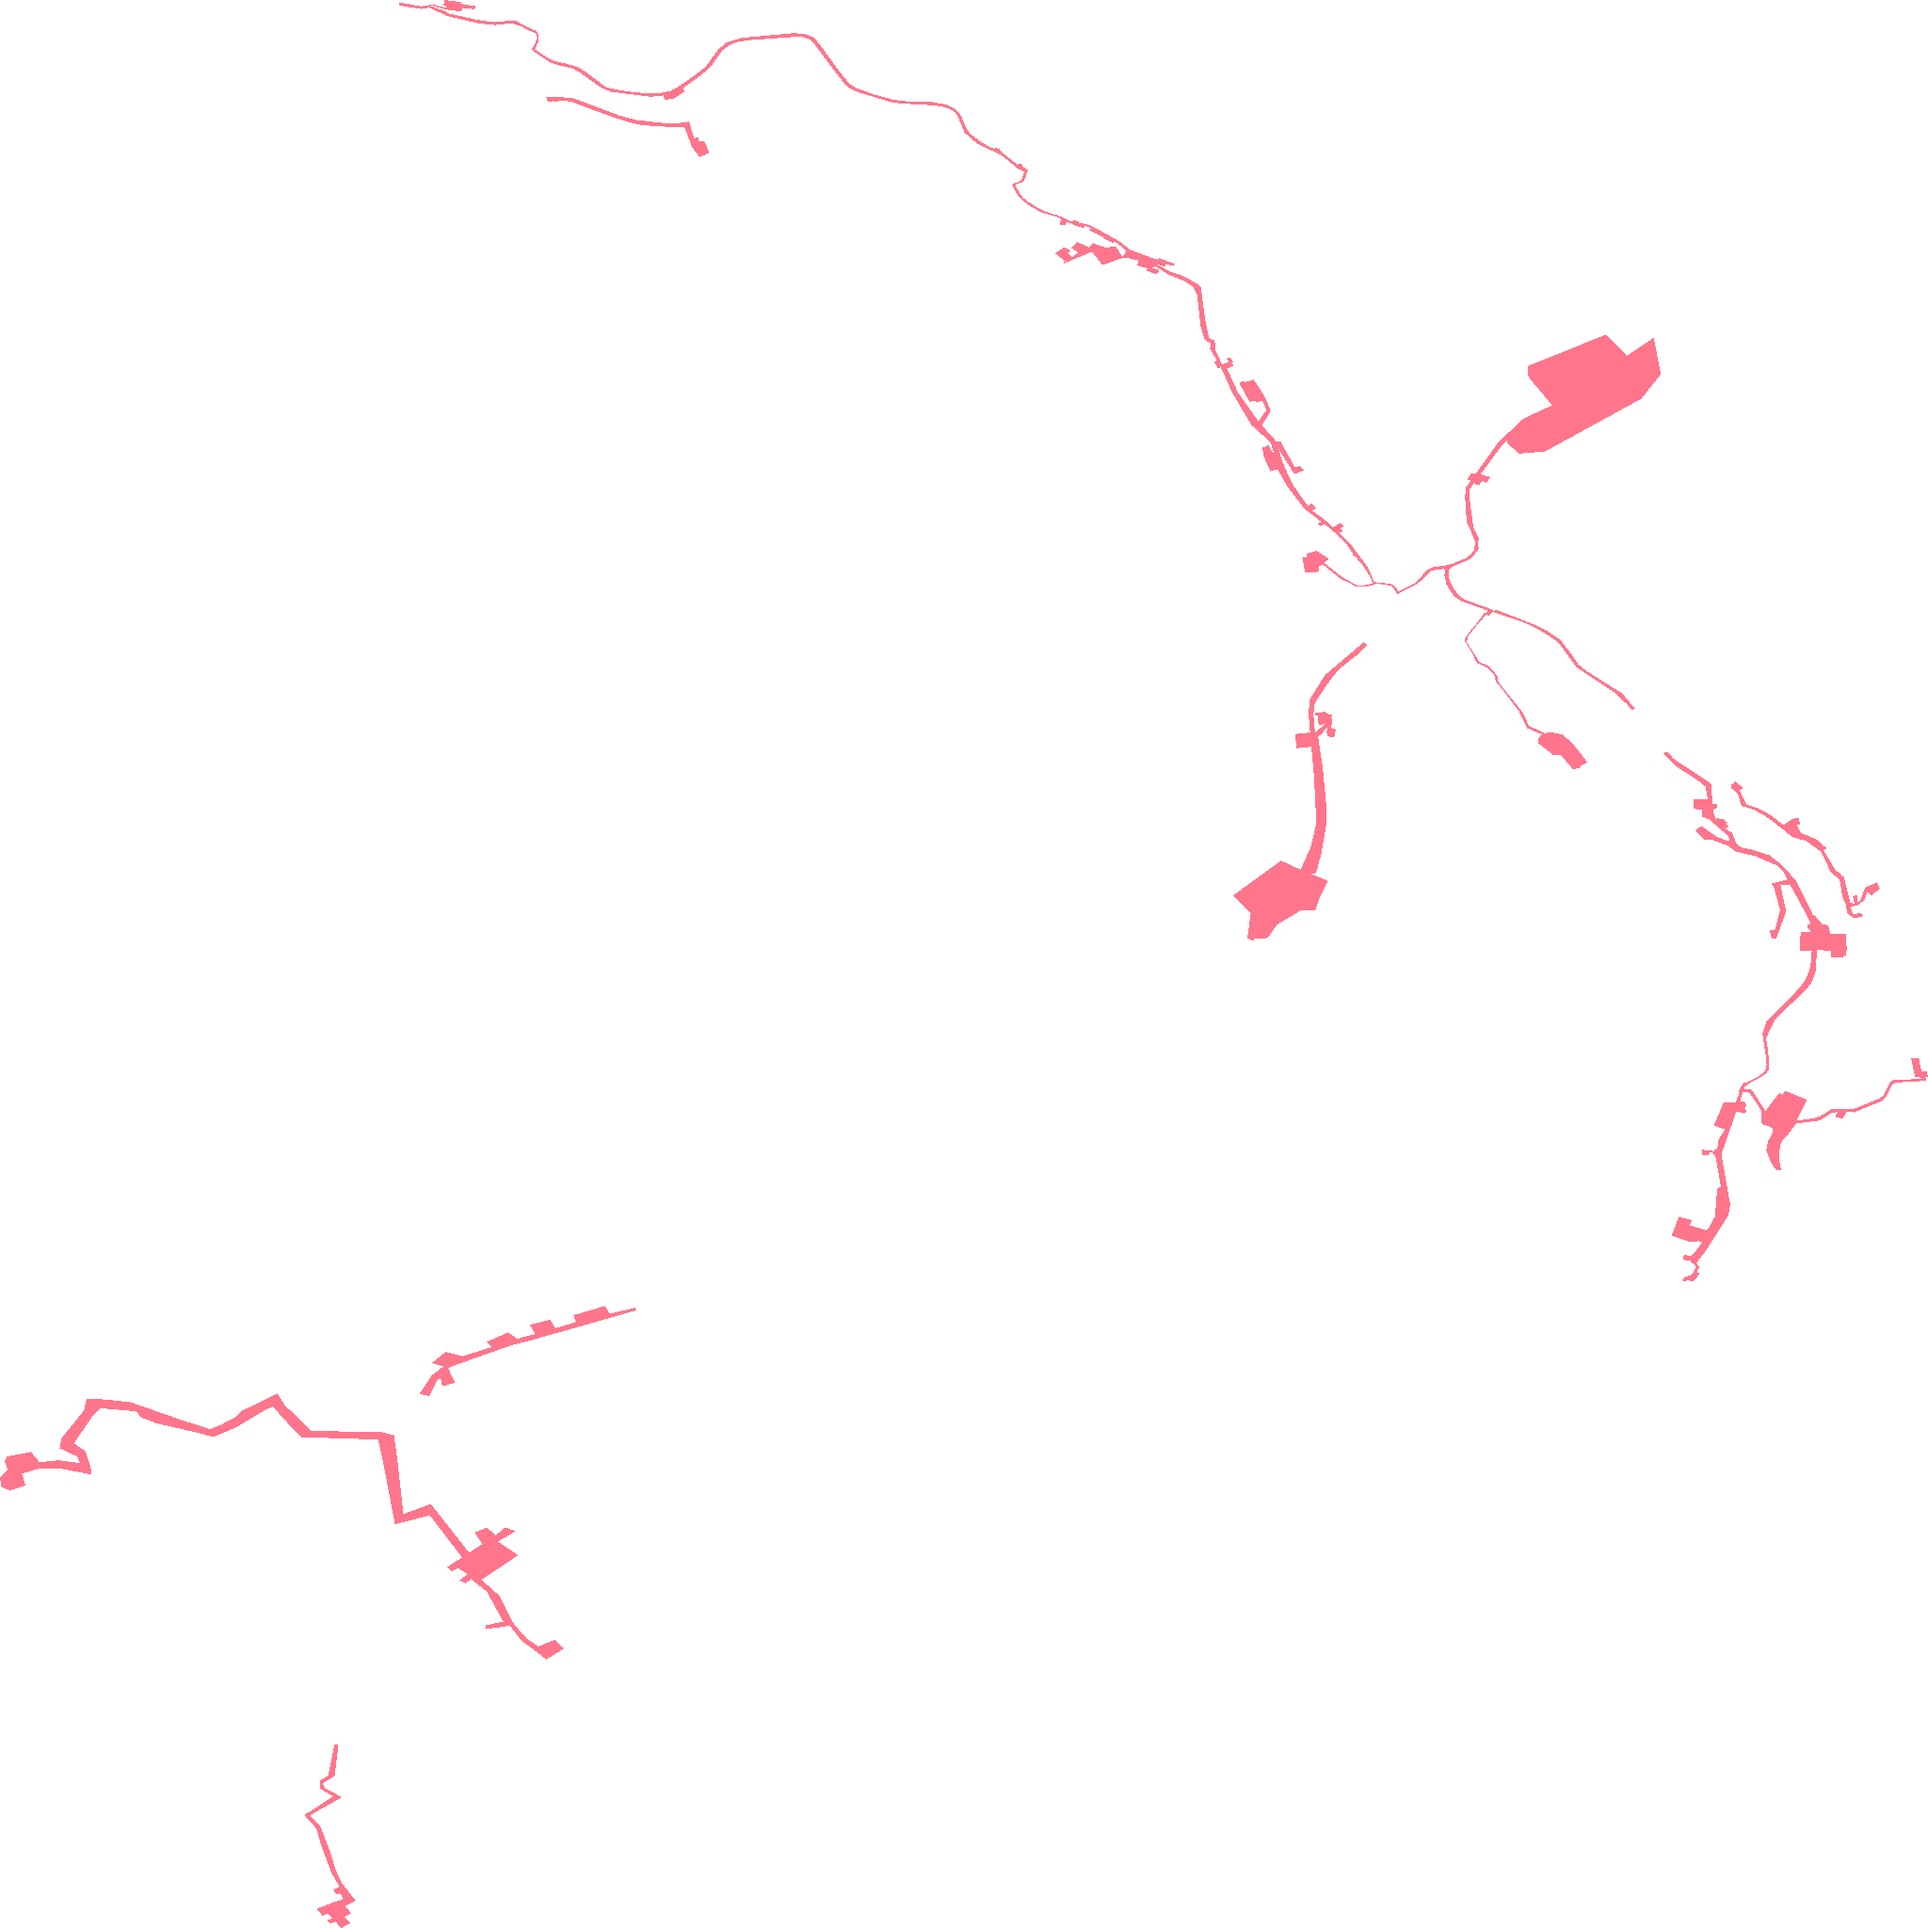
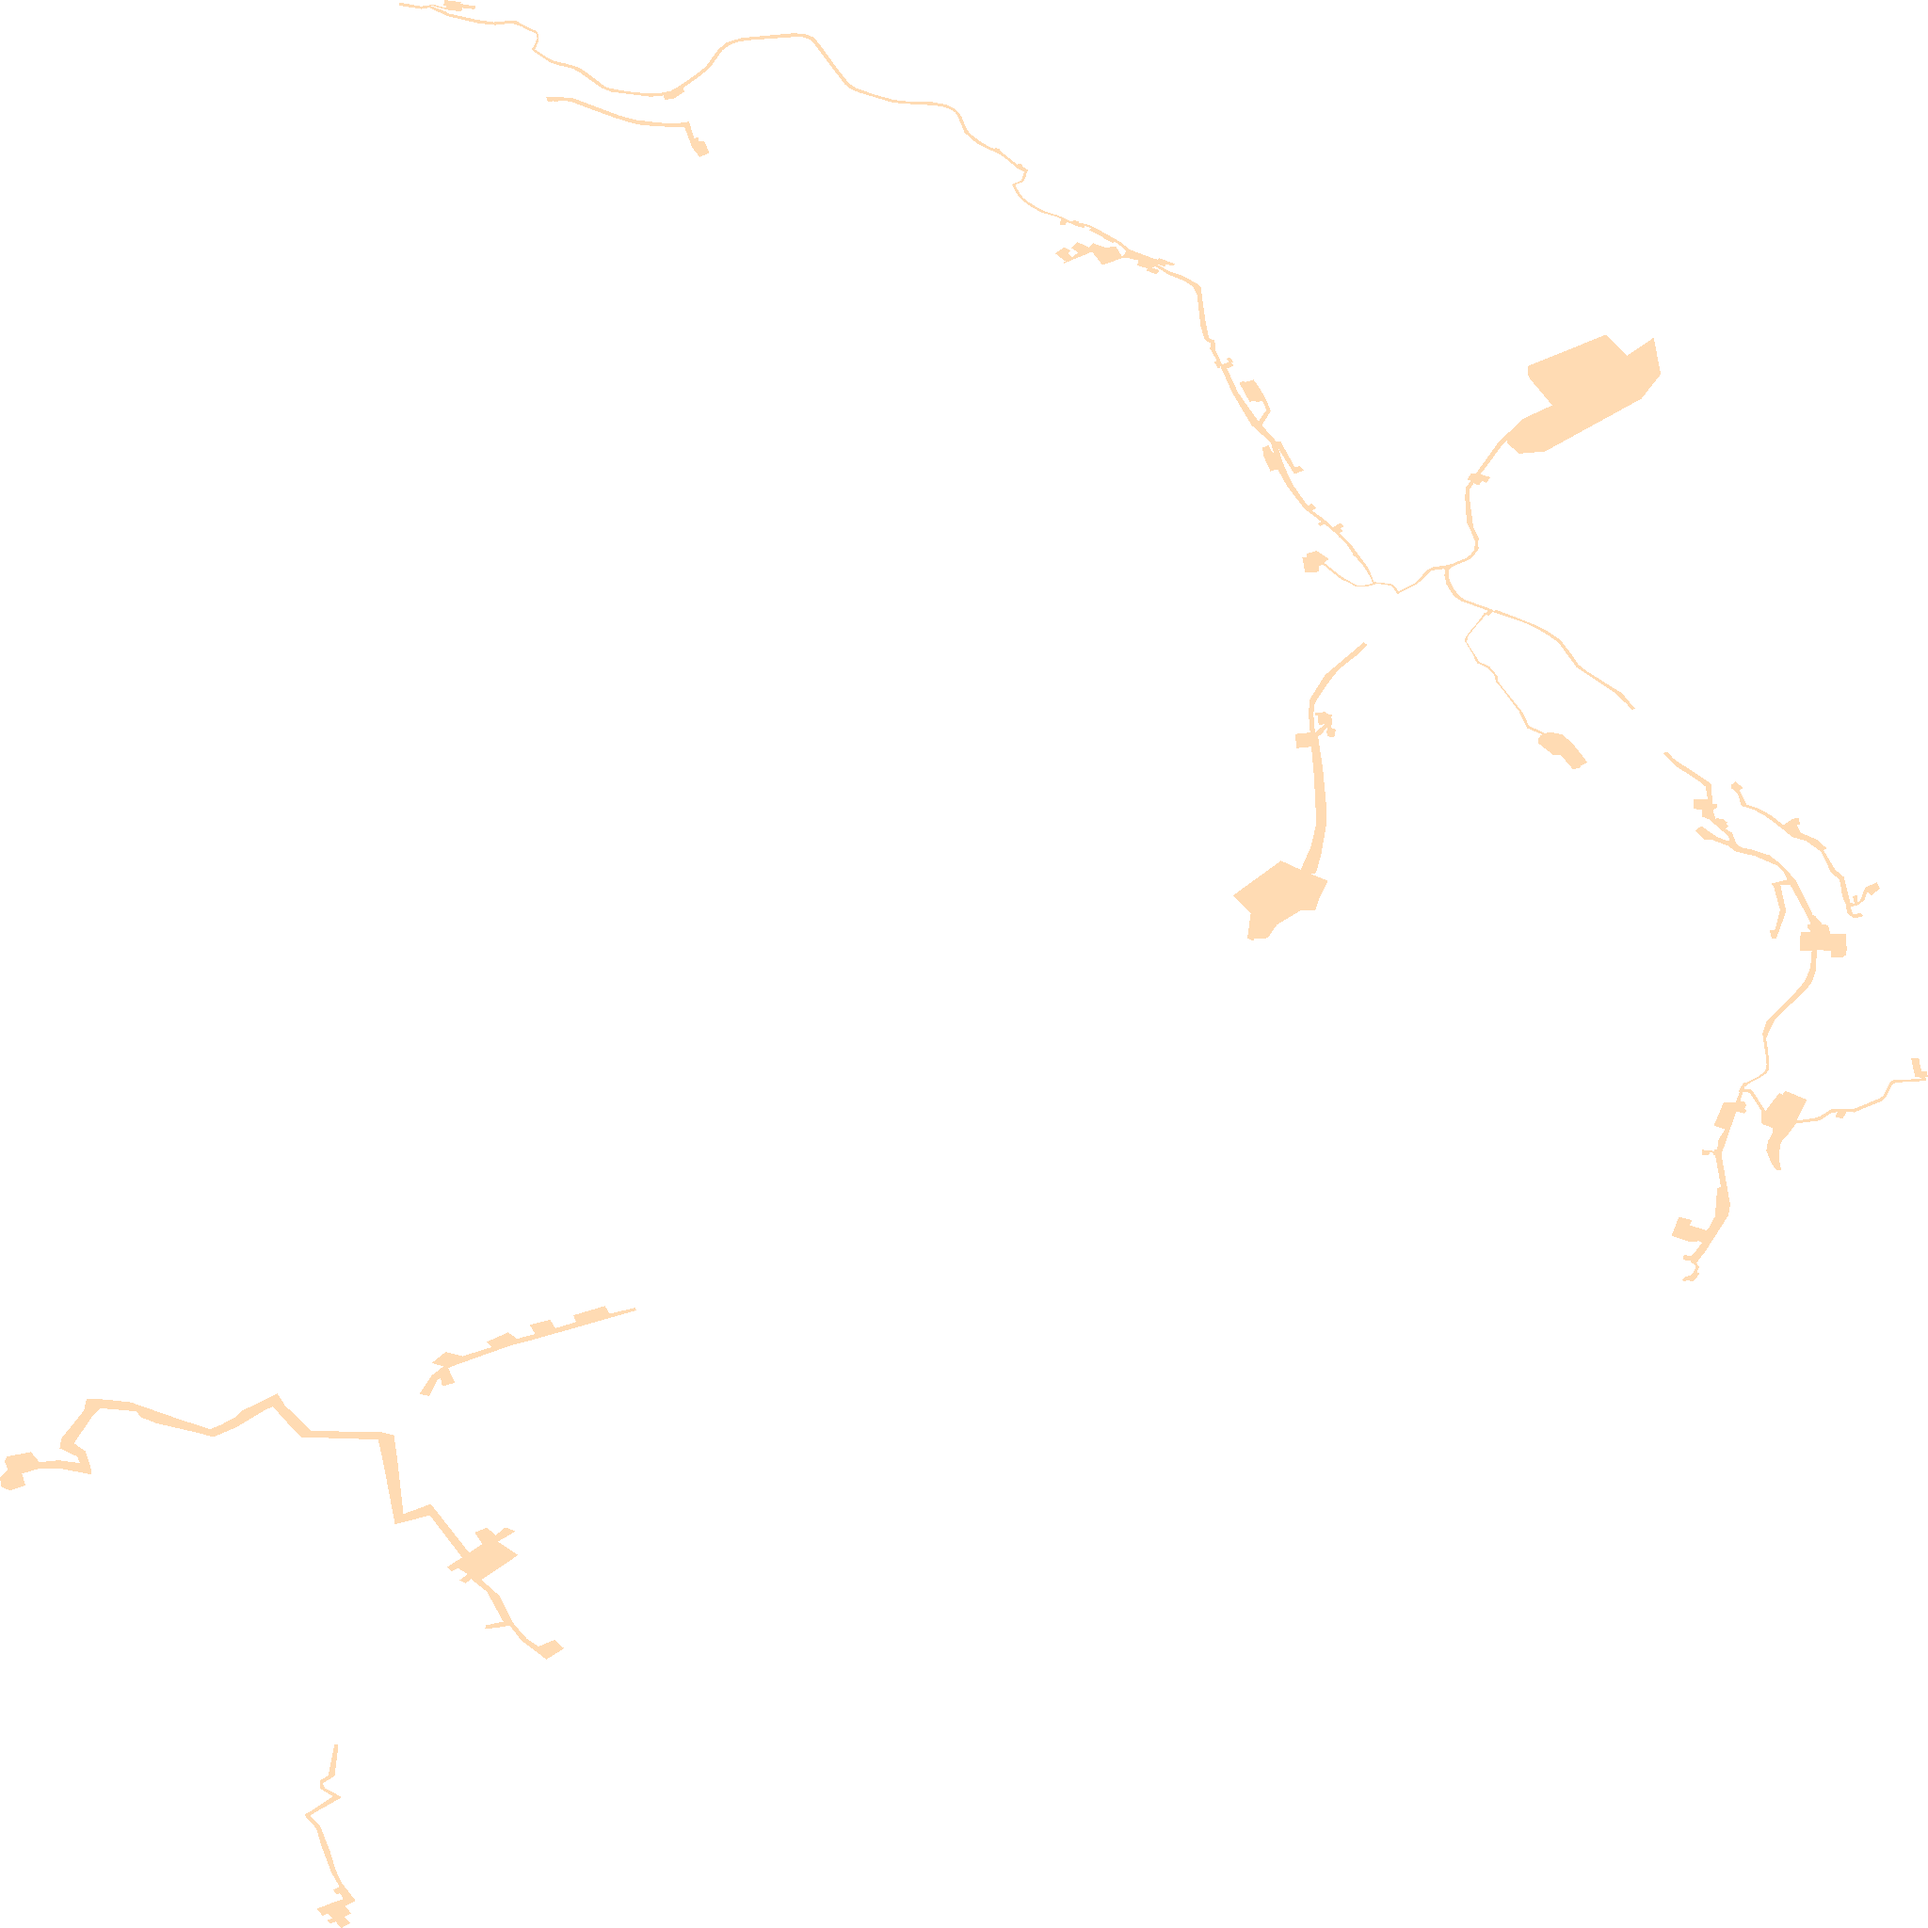
Karte sp_621

diff --git a/sp_621.html b/sp_621.html
@@ -60,7 +60,7 @@
         }
         .custom-control2 {
             position: absolute;
-            bottom: -320px;
+            top: 110px;
             left: 0px;
             background: white;
             padding: 5px;
@@ -77,24 +77,6 @@
         .custom-control:hover, .custom-control2:hover {
             background-color: #f0f0f0 !important;
         }
-        .leaflet-control-geocoder-icon {
-            background-color: white !important;
-            color: grey !important;
-            border: none !important;
-            width: 20px;
-            height: 20px;
-            display: flex;
-            justify-content: center;
-            align-items: center;
-            font-size: 15px;
-            font-family: 'Montserrat', sans-serif;
-            box-shadow: 0 1px 3px rgba(0, 0, 0, 0.3);
-            border-radius: 2px;
-            cursor: pointer;
-        }
-        .leaflet-control-geocoder-icon:hover {
-            background-color: #f0f0f0 !important;
-        }
         .custom-marker {
             width: 15px;
             height: 15px;
@@ -104,8 +86,8 @@
         }
         #legend {
             position: absolute;
-            bottom: 80px;
-            left: 55px;
+            top: 160px;
+            left: 10px;
             display: none;
             z-index: 1000;
             background: white;
@@ -128,8 +110,9 @@
 <body>
     <div id="map"></div>
     <div id="legend">
-        <div><span style="display:inline-block; width:20px; height:10px; background:#FF7F00; margin-right:5px;"></span>Ausbauphase 1: Ausbau bei ausreichender Nachfrage</div>
+        <div><span style="display:inline-block; width:20px; height:10px; background:#FF7F00; margin-right:5px;"></span>Ausbauphase 1: Glasfasernetz vorhanden oder geplant</div>
         <div><span style="display:inline-block;width:20px; height:10px; background:#00143C; margin-right:5px;"></span>Ausbauphase 2: Interessenbekundung möglich</div>
+        <div><span style="display:inline-block;width:20px; height:10px; background:#FFC17D; margin-right:5px;"></span>Ausbauphase 3: Gefördertes Ausbaugebiet </div>
     </div>
     <script>
     const bounds = [[50.370103551, 8.298337015], [50.460023478, 8.399754927]];
@@ -166,20 +149,6 @@
         });
         map.addControl(new legendControl());
         const markerLayerGroup = L.layerGroup().addTo(map);
-        const geocoder = L.Control.geocoder({
-            defaultMarkGeocode: false
-        })
-            .on('markgeocode', function (e) {
-                markerLayerGroup.clearLayers();
-                const latlng = e.geocode.center;
-                const customMarker = L.divIcon({
-                    className: 'custom-marker'
-                });
-                const marker = L.marker(latlng, { icon: customMarker });
-                markerLayerGroup.addLayer(marker);
-                map.fitBounds(bounds);
-            })
-            .addTo(map);
     </script>
 </body>
 </html>
